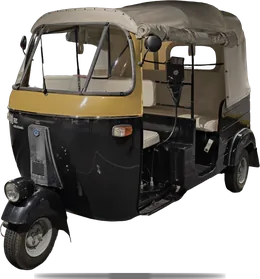
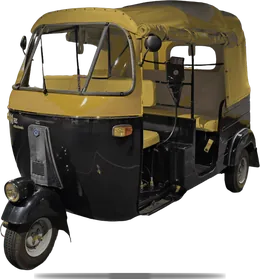
Seat the yellow keke beside the rider name
The details photo stays under the title, with its wheels inside the header. The cream panels are shifted to Keke Yellow and the credit notes the recolour.

diff --git a/apps/passenger/src/screens/MatchScreens.tsx b/apps/passenger/src/screens/MatchScreens.tsx
@@ -383,10 +383,7 @@ function OfferSelected() {
 
   return (
     <Screen testID="screen-offer" tone="vanta">
-      <HeaderSheet
-        clip={false}
-        style={{ paddingTop: Math.max(insets.top, 8), minHeight: 268, paddingBottom: 20 }}
-      >
+      <HeaderSheet clip={false} style={{ paddingTop: Math.max(insets.top, 8) }}>
         <View style={styles.headerRow}>
           <IconCircleButton
             label="Back"
@@ -402,25 +399,27 @@ function OfferSelected() {
             onPress={() => dispatch({ type: 'back' })}
           />
         </View>
-        <View style={styles.riderRow}>
-          <InitialAvatar letter={offer.name.slice(0, 1)} fontFamily={font.bold} size={52} />
-          <View style={styles.riderCopy}>
-            <Text style={[styles.riderName, { fontFamily: font.bold }]}>{offer.name}</Text>
-            <View style={styles.riderMeta}>
-              <YellowStar />
-              <Text style={[styles.headerSub, { fontFamily: font.medium }]}>
-                {offer.rating.toFixed(1)}
-              </Text>
-              <KekeGlyph size={13} color={vanta.muted} />
-              <Text style={[styles.headerSub, { fontFamily: font.medium }]}>
-                {offer.rides.toLocaleString('en-NG')} trips
-              </Text>
+        <View style={styles.riderBlock}>
+          <View style={styles.riderRow}>
+            <InitialAvatar letter={offer.name.slice(0, 1)} fontFamily={font.bold} size={52} />
+            <View style={styles.riderCopy}>
+              <Text style={[styles.riderName, { fontFamily: font.bold }]}>{offer.name}</Text>
+              <View style={styles.riderMeta}>
+                <YellowStar />
+                <Text style={[styles.headerSub, { fontFamily: font.medium }]}>
+                  {offer.rating.toFixed(1)}
+                </Text>
+                <KekeGlyph size={13} color={vanta.muted} />
+                <Text style={[styles.headerSub, { fontFamily: font.medium }]}>
+                  {offer.rides.toLocaleString('en-NG')} trips
+                </Text>
+              </View>
+              <Pill label={offer.seats > 0 ? `Carrying ${offer.seats}` : 'Verified'} tone="solid" />
             </View>
-            <Pill label={offer.seats > 0 ? `Carrying ${offer.seats}` : 'Verified'} tone="solid" />
           </View>
-        </View>
-        <View style={styles.kekeBleed} pointerEvents="none">
-          <KekeArt width={176} />
+          <View style={styles.kekeBleed} pointerEvents="none">
+            <KekeArt width={168} />
+          </View>
         </View>
       </HeaderSheet>
       <ScrollView contentContainerStyle={{ paddingBottom: 150, gap: 14 }}>
@@ -508,19 +507,22 @@ const styles = StyleSheet.create({
     paddingHorizontal: 16,
     gap: 12,
   },
+  riderBlock: {
+    flexDirection: 'row',
+    alignItems: 'flex-end',
+    marginTop: 10,
+  },
   riderRow: {
+    flex: 1,
     flexDirection: 'row',
     alignItems: 'center',
     gap: 10,
-    marginTop: 18,
   },
-  riderCopy: { flex: 1, gap: 4, paddingRight: 88 },
+  riderCopy: { flex: 1, gap: 4 },
   riderMeta: { flexDirection: 'row', alignItems: 'center', gap: 4 },
   kekeBleed: {
-    position: 'absolute',
-    right: -28,
-    bottom: 14,
-    zIndex: 3,
+    marginRight: -40,
+    marginBottom: -8,
   },
   grow: { flex: 1, gap: 4 },
   riderName: {

diff --git a/docs/reference/CREDITS.md b/docs/reference/CREDITS.md
@@ -7,4 +7,4 @@ The passenger home and rider-details screens use a cut-out of a Bajaj RE auto-ri
 - Source: [Bajaj RE.jpg](https://commons.wikimedia.org/wiki/File:Bajaj_RE.jpg) on Wikimedia Commons
 - Author: [Calreyn88](https://commons.wikimedia.org/wiki/User:Calreyn88)
 - License: [Creative Commons Attribution 4.0 International (CC BY 4.0)](https://creativecommons.org/licenses/by/4.0/)
-- Changes: the museum background was removed, the vehicle was cropped, darkened slightly, and given a soft ground shadow so it sits on the dark screens. The files are `packages/ui/assets/keke/`.
+- Changes: the museum background was removed, the vehicle was cropped, darkened slightly, and given a soft ground shadow. The cream body panels and canopy were recoloured toward Keke Yellow (`#FFC629`); the black body, wheels, and glass were left as photographed. The files are `packages/ui/assets/keke/`.
